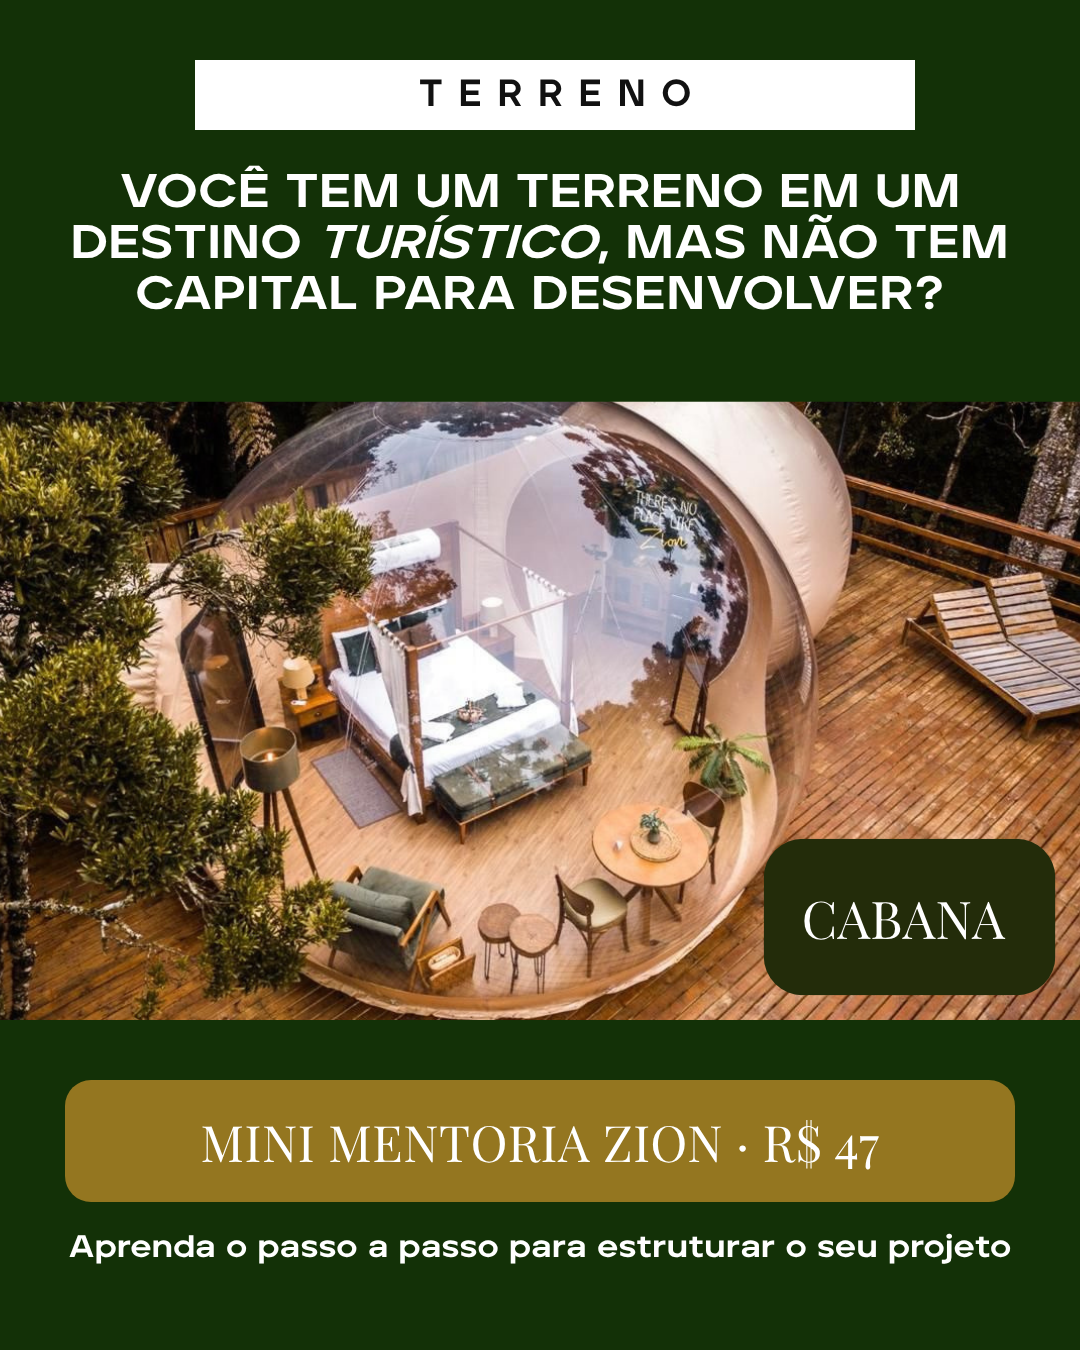
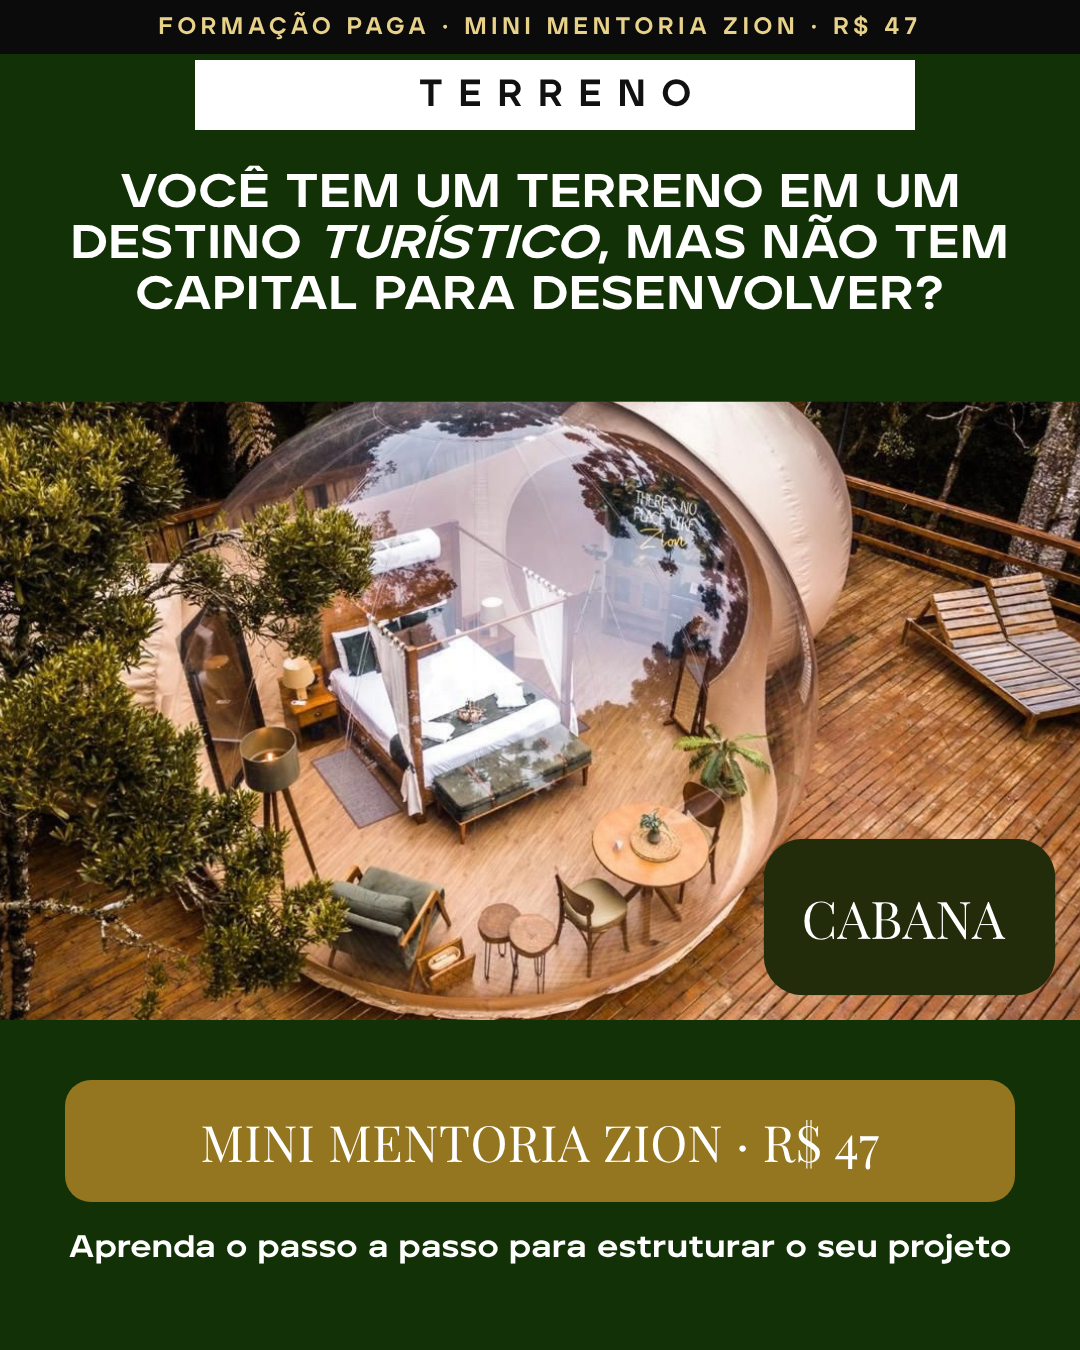
Carrossel C venda: faixa fixa com preço, gancho curto da expansão e cartão tangível com telas reais (9 cartões)
Claude-Session: https://claude.ai/code/session_01BzUk5bYdjCT6eSVqUG9zKZ

Changed region(s): [[0.0, 0.0, 1.0, 0.0622]]

diff --git a/docs/ads/venda-carrossel-c/build.js b/docs/ads/venda-carrossel-c/build.js
@@ -43,9 +43,9 @@ const cards=[
 <div class="b s" style="left:160px;width:880px;top:1290px;font-size:24px;color:#fff;line-height:1.1">*Possibilidade sujeita à análise, sem garantia de parceria ou investimento.</div>`],
 // 4b gancho da plataforma (cartão extra, a pedido de Bruno): mesmo layout do cartão 4, outra foto real sem pessoas
 [`o8.png`,`<div class="b" style="left:445px;top:795px;width:635px;height:555px;background:${PU}"></div><div class="b" style="left:150px;top:1160px;width:930px;height:190px;background:${PU}"></div>
-<div class="b s" style="left:455px;width:600px;top:830px;font-size:44px;font-weight:900;color:#fff;text-transform:uppercase;line-height:1.06">Fazer a mentoria abre a porta da plataforma Zion</div>
-<div class="b s" style="left:455px;width:600px;top:1010px;font-size:30px;font-weight:700;color:#f6ecc4;text-transform:uppercase;line-height:1.1">A plataforma faz parte da expansão Zion</div>
-<div class="b s" style="left:160px;width:880px;top:1125px;font-size:34px;color:#fff;line-height:1.18">Estruture o seu projeto lá dentro e, a partir do resultado, você pode se tornar um próximo parceiro Zion*</div>
+<div class="b s" style="left:455px;width:600px;top:830px;font-size:44px;font-weight:900;color:#fff;text-transform:uppercase;line-height:1.06">Estruture o seu projeto e faça parte da nossa expansão*</div>
+<div class="b s" style="left:455px;width:600px;top:1030px;font-size:28px;font-weight:700;color:#f6ecc4;text-transform:uppercase;line-height:1.1">Depois, nós queremos te conhecer</div>
+<div class="b s" style="left:160px;width:880px;top:1135px;font-size:33px;color:#fff;line-height:1.18">A mentoria dá acesso à plataforma Zion, que faz parte da nossa expansão. Primeiro você estrutura; depois nós conhecemos o seu projeto.</div>
 <div class="b s" style="left:160px;width:880px;top:1290px;font-size:24px;color:#fff;line-height:1.1">*Possibilidade sujeita à análise, sem garantia de parceria ou investimento.</div>`],
 // 5 oportunidade (original 5): o que recebe
 [`o5.png`,`<div class="b" style="left:0;top:1102px;width:1080px;height:248px;background:${BE}"></div>
@@ -56,6 +56,18 @@ const cards=[
 <div class="b s" style="left:618px;width:400px;top:165px;height:815px;border-radius:44px;background:#000;color:#fff;font-size:63px;display:flex;align-items:center;justify-content:center;line-height:1.16;padding:0 26px">Você não precisa começar construindo um hotel</div>
 <div class="b s" style="left:590px;width:460px;top:1060px;font-size:40px;color:#fff;line-height:1.12">Aulas gravadas, fichas “Faça agora”, e-books por pilar, 2 planilhas em branco, Kit do Investidor e Dossiê em PDF</div>
 <div class="b" style="left:562px;top:1318px;width:518px;height:30px;display:flex;align-items:center;justify-content:center;font-family:A;font-size:20px;color:#fff;background:transparent">Imagem ilustrativa</div>`],
+// 6b tangível (a pedido de Bruno): o que a pessoa leva, com telas reais da plataforma (sem mapa/agendar)
+[`o1.png`,`<div class="b" style="left:0;top:0;width:1080px;height:1350px;background:#0e1f09"></div>
+<div class="b w" style="left:60px;right:60px;top:120px;font-size:48px;color:#e8d28a">O que você leva da mentoria</div>
+<div class="b s" style="left:80px;right:80px;top:225px;font-size:30px;color:#fff">Telas reais da plataforma Zion</div>
+<img class="b" src="file://${R}/zion-collection/club/telas/aula.jpg" style="left:45px;top:310px;width:310px;height:620px;object-fit:cover;object-position:top;border-radius:18px;border:3px solid #e8d28a">
+<img class="b" src="file://${R}/zion-collection/club/telas/diagnostico.jpg" style="left:385px;top:310px;width:310px;height:620px;object-fit:cover;object-position:top;border-radius:18px;border:3px solid #e8d28a">
+<img class="b" src="file://${R}/zion-collection/club/telas/previab.jpg" style="left:725px;top:310px;width:310px;height:620px;object-fit:cover;object-position:top;border-radius:18px;border:3px solid #e8d28a">
+<div class="b s" style="left:45px;width:310px;top:950px;font-size:26px;color:#fff">Aulas e fichas "Faça agora"</div>
+<div class="b s" style="left:385px;width:310px;top:950px;font-size:26px;color:#fff">Diagnóstico do seu projeto</div>
+<div class="b s" style="left:725px;width:310px;top:950px;font-size:26px;color:#fff">Pré-viabilidade com os seus números</div>
+<div class="b s" style="left:70px;right:70px;top:1090px;font-size:42px;font-weight:700;color:#fff;line-height:1.12">No fim, você monta o seu Dossiê de Desenvolvimento em PDF</div>
+<div class="b s" style="left:70px;right:70px;top:1260px;font-size:26px;color:#e8d28a">Formação digital paga · 12 meses de acesso</div>`],
 // 7 conversao (original 7, foto trocada por foto real sem pessoas)
 [`o7.png`,`<div class="b" style="left:0;top:0;width:572px;height:1030px;background:${Y}"></div>
 <div class="b s" style="left:40px;width:492px;top:70px;font-size:46px;font-weight:900;color:#0b0b0b;text-transform:uppercase;line-height:1.08">Mini Mentoria de Estruturação Zion</div>
@@ -64,6 +76,6 @@ const cards=[
 <div class="b s" style="left:40px;width:492px;top:590px;font-size:30px;color:#0b0b0b;line-height:1.18">Pagamento único, sem mensalidade<br>Pix ou cartão · 12 meses de acesso<br>Garantia de 7 dias</div>
 <div class="b s" style="left:46px;width:480px;top:790px;height:216px;border-radius:52px;background:#ffed00;color:#0b0b0b;font-size:44px;display:flex;align-items:center;justify-content:center;line-height:1.02;letter-spacing:-.01em;padding:0 22px;font-weight:700;text-transform:uppercase">Quero acessar a plataforma por R$47</div>`]];
 (async()=>{const b=await chromium.launch();const p=await b.newPage({viewport:{width:1080,height:1350}});
-for(let i=0;i<cards.length;i++){const f=`${D}/_t.html`;fs.writeFileSync(f,`<!doctype html><meta charset=utf-8><style>${css}</style><body><img class="o" src="file://${SRC}/${cards[i][0]}">${cards[i][1]}</body>`);
+for(let i=0;i<cards.length;i++){const f=`${D}/_t.html`;fs.writeFileSync(f,`<!doctype html><meta charset=utf-8><style>${css}</style><body><img class="o" src="file://${SRC}/${cards[i][0]}">${cards[i][1]}<div style="position:absolute;left:0;top:0;width:1080px;height:54px;background:#0b0b0b;color:#e8d28a;font-family:A;font-weight:800;font-size:24px;letter-spacing:.2em;display:flex;align-items:center;justify-content:center;text-transform:uppercase;z-index:9">Formação paga · Mini Mentoria Zion · R$ 47</div></body>`);
  await p.goto('file://'+f);await p.evaluate(()=>document.fonts.ready);await p.waitForTimeout(400);await p.screenshot({path:`${D}/carrossel-c-venda-${i+1}.png`});}
 fs.unlinkSync(`${D}/_t.html`);await b.close();})();

diff --git a/docs/ads/venda-carrossel-c/COPIES.md b/docs/ads/venda-carrossel-c/COPIES.md
@@ -37,3 +37,11 @@ Original = `docs/ads/inscricao-270/campeao-narrativa/carrossel-c-card-N.png` (ca
 O carrossel passou a ter 8 cartões: o novo é o cartão 5 (os antigos 5, 6 e 7 viraram 6, 7 e 8). Mesmo layout do cartão 4, outra foto real sem pessoas (store/deck).
 Texto: "Fazer a mentoria abre a porta da plataforma Zion" / "A plataforma faz parte da expansão Zion" / "Estruture o seu projeto lá dentro e, a partir do resultado, você pode se tornar um próximo parceiro Zion*" / "*Possibilidade sujeita à análise, sem garantia de parceria ou investimento."
 Observação: manifesto.json e painel-comparacao.jpg ainda descrevem a versão de 7 cartões.
+
+## Atualização (25/11, respostas de Bruno): 9 cartões
+- **Faixa fixa no topo de TODOS os cartões:** "FORMAÇÃO PAGA · MINI MENTORIA ZION · R$ 47" (para ninguém achar que é grátis).
+- **Cartão 5 (gancho):** "Estruture o seu projeto e faça parte da nossa expansão*" / "Depois, nós queremos te conhecer" / "A mentoria dá acesso à plataforma Zion, que faz parte da nossa expansão. Primeiro você estrutura; depois nós conhecemos o seu projeto." / nota "*Possibilidade sujeita à análise, sem garantia de parceria ou investimento."
+- **Cartão 8 (novo, tangível):** "O que você leva da mentoria": telas reais (aula/Marco Zero, diagnóstico prévio, Pré-viabilidade) e "No fim, você monta o seu Dossiê de Desenvolvimento em PDF". Rodapé: "Formação digital paga · 12 meses de acesso".
+- **Cartão 4:** mantém a frase da plataforma (decisão de Bruno).
+- **Texto primário:** abrir a primeira linha com "Formação digital paga, R$ 47:" e usar verbo "acesse/adquira", nunca "inscreva-se" nem "cadastre". Frase "mesmo que não vire parceria..." NÃO entra (decisão de Bruno).
+- manifesto.json e painel-comparacao.jpg ainda descrevem a versão anterior (7 cartões).
